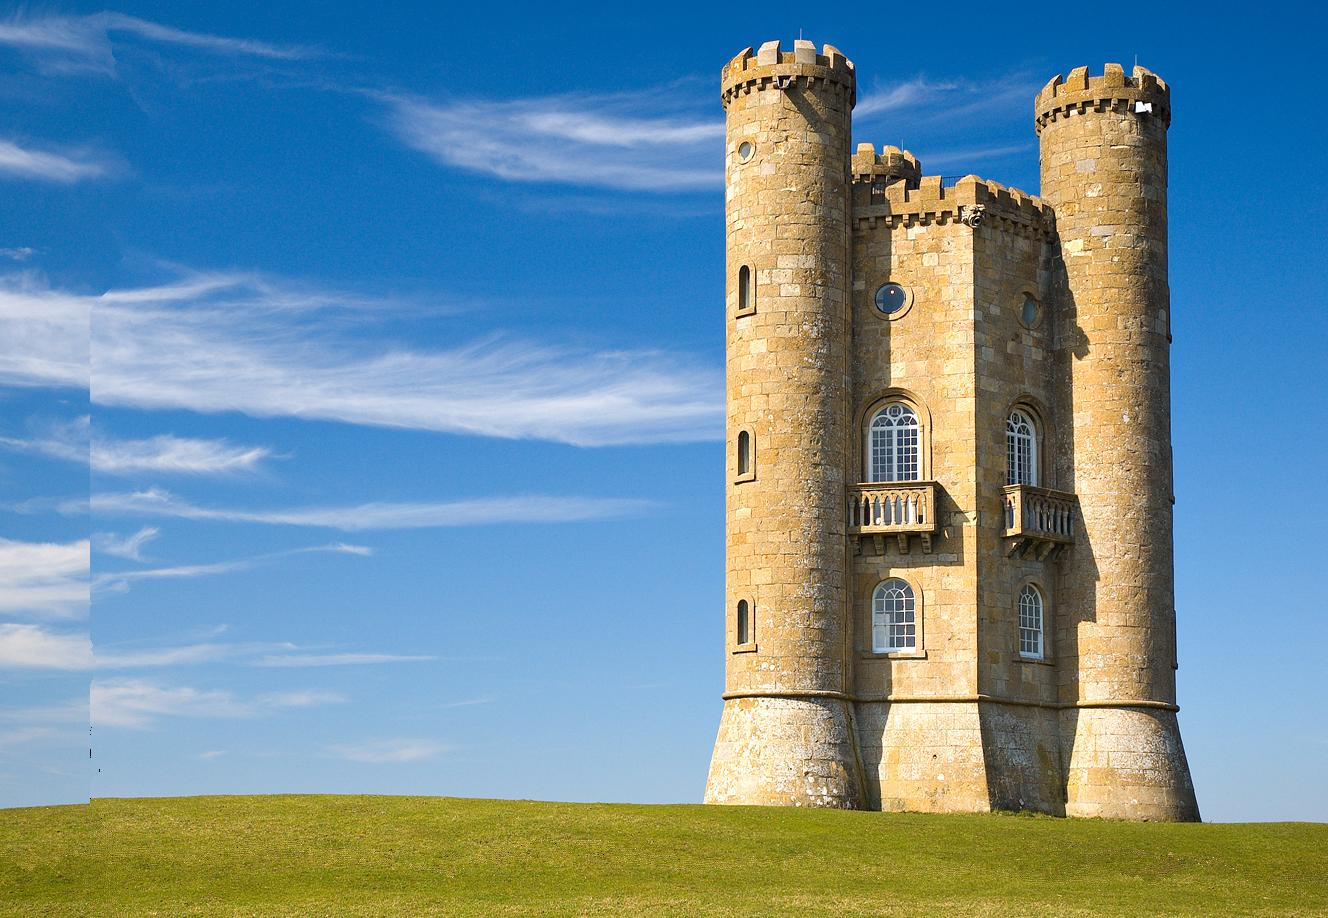
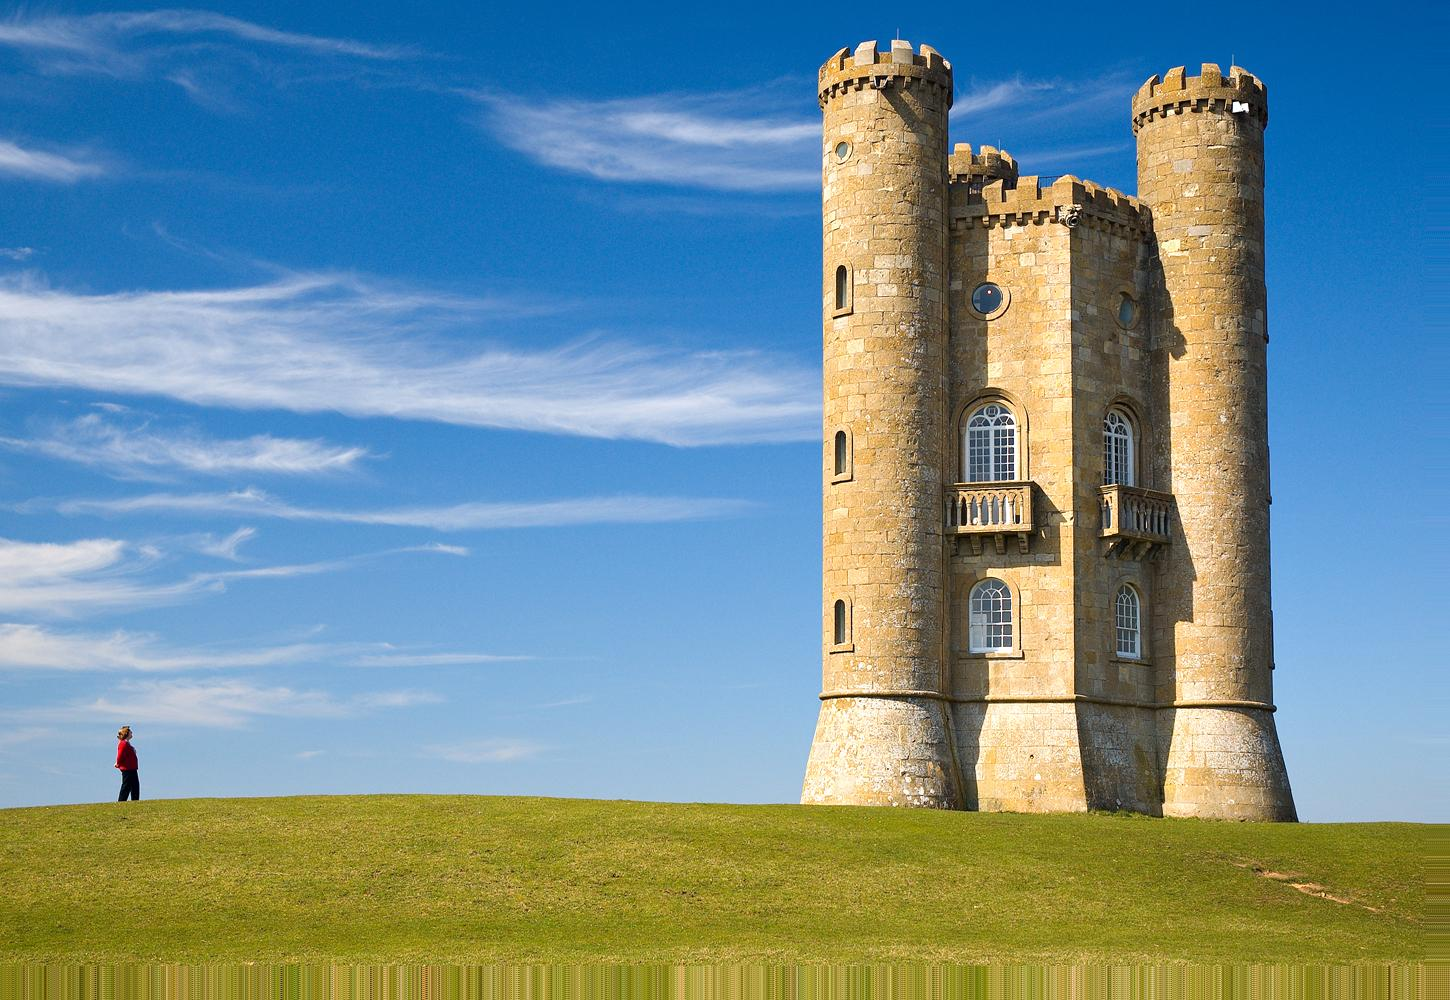
Grow works, but is doing a lot of streching.

diff --git a/exam/src/exam/SeamCarver.java b/exam/src/exam/SeamCarver.java
@@ -105,7 +105,7 @@ public class SeamCarver
 		{
 			Seam seam = getSeam(horizontalSeamsLeft, verticalSeamsLeft);
 			seamsRemoved.add(seam);
-			removeSeam(seam);
+			updateSeam(seam, growVertical, growHorizontal);
 			if (seam.getDirection() == Direction.HORIZONTAL)
 			{
 				horizontalSeamsLeft--;
@@ -121,18 +121,47 @@ public class SeamCarver
 		
 	}
 
-	private void removeSeam(Seam seam)
+	private void updateSeam(Seam seam, boolean growVertical, boolean growHorizontal)
 	{
 		if (seam.getDirection() == Direction.HORIZONTAL)
 		{
-			image = removeSeamHorizontal(seam);
+			image = growHorizontal ? addSeamHorizontal(seam) : removeSeamHorizontal(seam);
 		}
 		else
 		{
-			image = removeSeamVertical(seam);
+			image = growVertical ? addSeamVertical(seam) : removeSeamVertical(seam);
 		}
 	}
 
+	
+	private BufferedImage addSeamHorizontal(Seam seam) 
+	{
+		int width = image.getWidth();
+		int height = image.getHeight();
+		BufferedImage newImage = new BufferedImage(width, height + 1, image.getType());
+		for (int x = 0; x < width; x++) 
+		{
+			boolean addTo = false;
+			for (int y = 0; y < height; y++)
+			{
+				if (seam.getPixels()[x] == y)
+				{
+					addTo = true;
+				}
+				if(addTo)
+				{
+					newImage.setRGB(x, y, image.getRGB(x, y));
+					newImage.setRGB(x, y+1, image.getRGB(x, (y-1+height)%height));
+				}
+				else
+				{
+					newImage.setRGB(x, y, image.getRGB(x, y));
+				}
+			}
+		}
+		return newImage;
+	}
+	
 	private BufferedImage removeSeamHorizontal(Seam seam) 
 	{
 		int width = image.getWidth();
@@ -150,6 +179,35 @@ public class SeamCarver
 				if(skip)
 				{
 					newImage.setRGB(x, y, image.getRGB(x, y + 1));
+				}
+				else
+				{
+					newImage.setRGB(x, y, image.getRGB(x, y));
+				}
+			}
+		}
+		return newImage;
+	}
+	
+	
+	private BufferedImage addSeamVertical(Seam seam) 
+	{
+		int width = image.getWidth();
+		int height = image.getHeight();
+		BufferedImage newImage = new BufferedImage(width + 1, height, BufferedImage.TYPE_INT_RGB);
+		for (int y = 0; y < height; y++) 
+		{
+			boolean addTo = false;
+			for (int x = 0; x < width; x++)
+			{
+				if (seam.getPixels()[y] == x)
+				{
+					addTo = true;
+				}
+				if(addTo)
+				{
+					newImage.setRGB(x, y, image.getRGB(x, y));
+					newImage.setRGB(x + 1, y, image.getRGB((x-1+width)%width, y));
 				}
 				else
 				{
@@ -748,8 +806,10 @@ public class SeamCarver
 //        {
 //        	System.out.println(seam);
 //        }
+        int maxWidth = Math.max(ogImage.getWidth(), image.getWidth());
+        int maxHeight = Math.max(ogImage.getHeight(), image.getHeight());
         // 2d array will keep the rgb values for the seam table image
-        int[][] seam_image_array = new int[ogImage.getWidth()][ogImage.getHeight()];
+        int[][] seam_image_array = new int[maxWidth+1][maxHeight+1];
 
 
         int current_width = image.getWidth();
